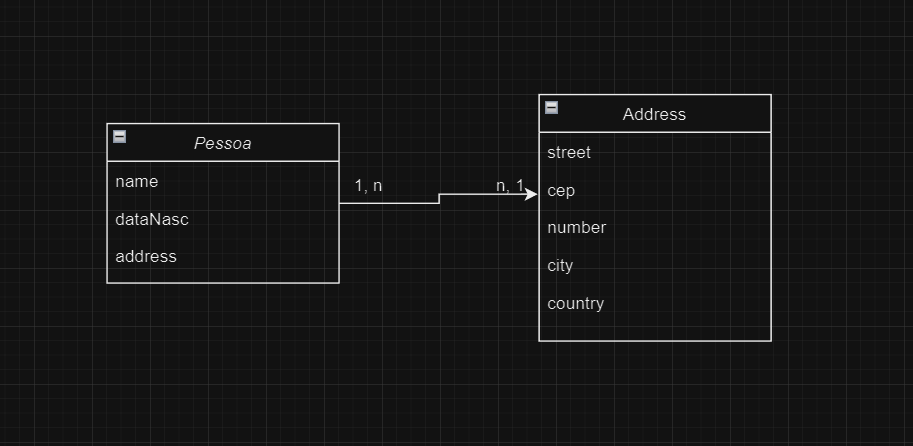
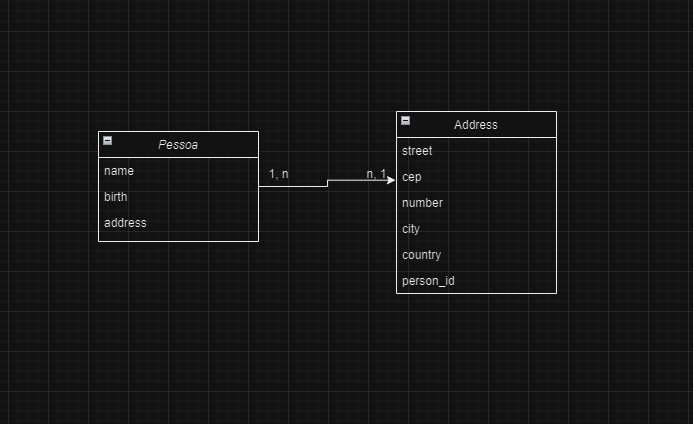
feat: Criado classes entity Person e Address

diff --git a/src/main/java/br/com/attus/peopleManagement/entity/Address.java b/src/main/java/br/com/attus/peopleManagement/entity/Address.java
@@ -1,0 +1,29 @@
+package br.com.attus.peopleManagement.entity;
+
+import jakarta.persistence.*;
+import lombok.AllArgsConstructor;
+import lombok.Getter;
+import lombok.NoArgsConstructor;
+import lombok.Setter;
+
+@AllArgsConstructor
+@NoArgsConstructor
+@Getter
+@Setter
+@Entity
+public class Address {
+
+    @Id
+    @GeneratedValue(strategy = GenerationType.IDENTITY)
+    private Long idAddress;
+    private String street;
+    private Long cep;
+    private Long number;
+    private String city;
+    private String state;
+    private Boolean mainAddress;
+    @ManyToOne
+    @JoinColumn(name = "person_id")
+    private Person person;
+
+}

diff --git a/src/main/java/br/com/attus/peopleManagement/entity/Person.java b/src/main/java/br/com/attus/peopleManagement/entity/Person.java
@@ -1,0 +1,27 @@
+package br.com.attus.peopleManagement.entity;
+
+import jakarta.persistence.*;
+import lombok.AllArgsConstructor;
+import lombok.Getter;
+import lombok.NoArgsConstructor;
+import lombok.Setter;
+
+import java.time.LocalDate;
+import java.util.List;
+
+@AllArgsConstructor
+@NoArgsConstructor
+@Getter
+@Setter
+@Entity
+public class Person {
+
+    @Id
+    @GeneratedValue(strategy = GenerationType.IDENTITY)
+    private Long idPerson;
+    private String name;
+    private LocalDate birth;
+    @OneToMany
+    private List<Address> address;
+
+}
